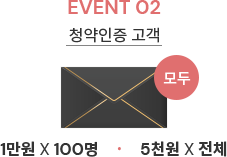
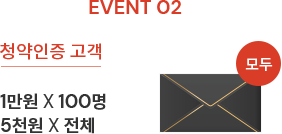
디자인수정완료

diff --git a/src/css/common.css b/src/css/common.css
@@ -368,7 +368,7 @@ footer .footer-logo.halla{width: 25.0000vw; height: 9.4444vw;}
 
 .section.event .giftcard-box{text-align: center;}
 .section.event .giftcard-box .img-box{background-color: #fff; padding: 2.7778vw 0; margin-bottom: 1.3889vw; height: 57.0833vw;}
-.section.event .giftcard-box .img-box > img{width: 60%; margin-top: 4vw;}
+.section.event .giftcard-box .img-box > img{width: 70%; margin-top: 8vw;}
 .section.event .giftcard-box .img-box:last-child{margin-bottom: 5.5556vw;}
 
 
@@ -656,7 +656,7 @@ footer .footer-logo img {width:100%;}
 
     .section.event .giftcard-box{text-align: center;}
     .section.event .giftcard-box .img-box{background-color: #fff; padding: 20px 0; margin-bottom: 10px; height: 211px; }
-    .section.event .giftcard-box .img-box > img{margin-top:10px;}
+    .section.event .giftcard-box .img-box > img{margin-top:25px;}
     .section.event .giftcard-box .img-box:last-child{margin-bottom: 20px;}
 
     .section.event .form-box {padding:0;}
@@ -669,7 +669,7 @@ footer .footer-logo img {width:100%;}
 
     .section.event .form-box .phone-input {width: 100%; height: 40px; font-weight: 400; padding-left: 0; margin-bottom: 15px; border: 1px solid #959595; background-color: Transparent; font-size: 16px; color: #000; text-align: center; position: relative; left: 50%; transform: translateX(-50%); font-family:'NotoSansKR'; font-weight:400}
 
-    .section.event .agree-box li {margin-bottom:25px; padding:0;}
+    .section.event .agree-box li {margin-bottom:10px; padding:0;}
     .section.event .agree-box li:first-child label {font-size:15px; line-height:18px;}
     .section.event .agree-box li label {font-family:'NotoSansKR'; color:#393939; font-size:13px; line-height:18px; font-weight:500;}
     .section.event .agree-box li a {color:#8c8b89; font-size:13px; line-height:18px; letter-spacing:-1px;}
